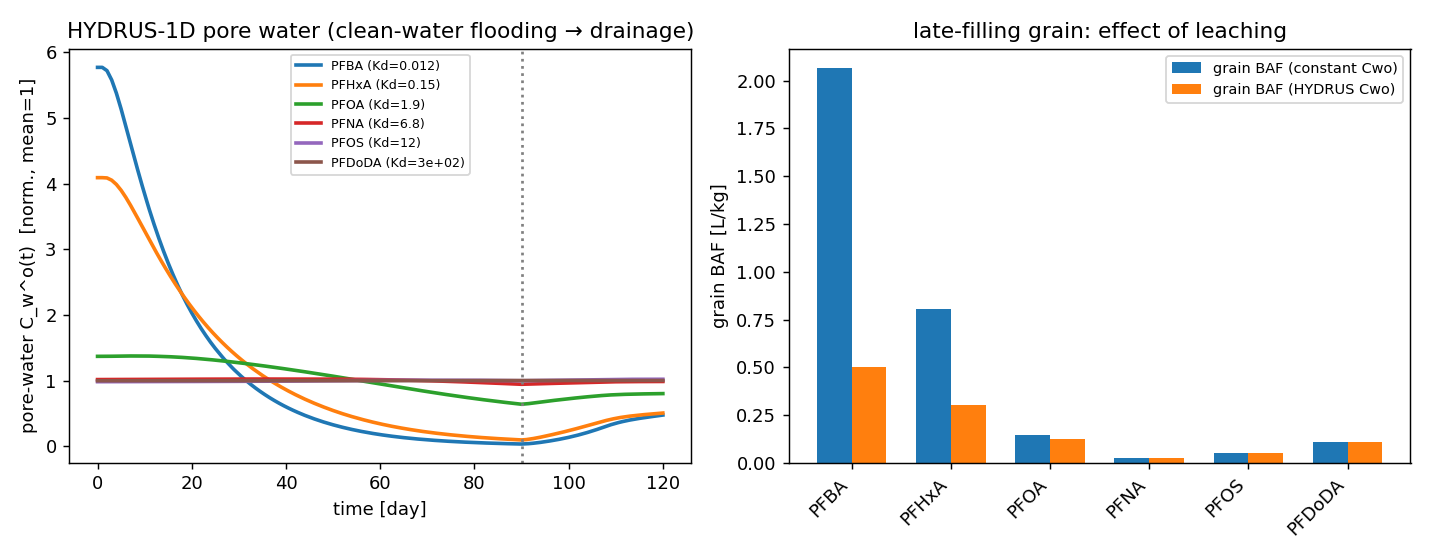
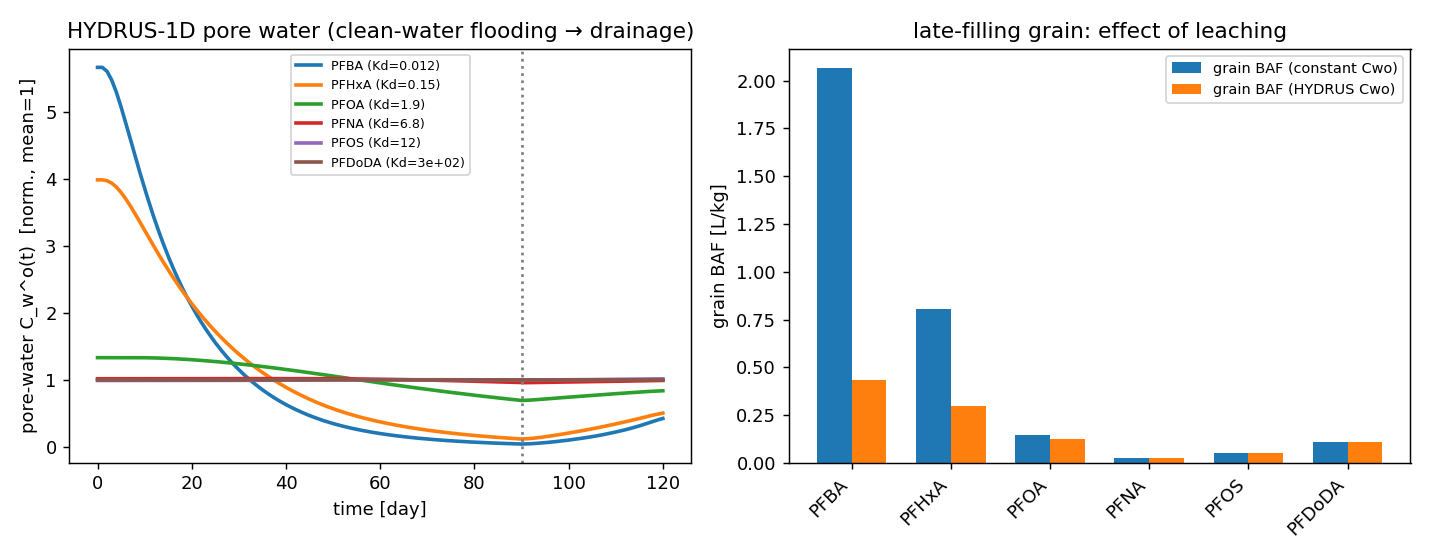
soil_hydrus: drive HYDRUS by measured transpiration, default Q_TP from the run
Make qtp_from_hydrus the default in inputs_from_hydrus so Method A supplies BOTH
C_w^o(t) and Q_TP(t) from the real soil run, not just the pore water.

To keep this an improvement (not a regression from the measured forcing_rice
crop physiology), the soil run's potential transpiration (atmospheric rRoot) is
now driven by the MEASURED transpiration shape (forcing_rice.transpiration_mm_d),
and HYDRUS's actual root water uptake vRoot is converted to L/day/hill via the
planting-density area. When the flooded paddy is unstressed this reproduces
forcing_rice.Q_TP to <1% (peak ratio 1.00, shape corr 0.999); it only diverges
under soil-water limitation -- the physically meaningful added value.

- src/soil_hydrus.py: run_paddy_hydrus gains tpot_fn (potential transpiration
  driver); inputs_from_hydrus defaults qtp_from_hydrus=True with the physical
  vRoot->Q_TP conversion (area_per_hill) instead of the peak-rescale hack.
- tests/test_soil_hydrus.py: add a consistency test (HYDRUS Q_TP vs measured
  forcing when unstressed). 76 passed, 1 skipped.
- validation/hydrus_coupled_run.py outputs refreshed (PFBA grain 2.07->0.43).
- CLAUDE.md / README.md updated.

https://claude.ai/code/session_01GcDnRDx6KWFs8dxY7dNsG6

diff --git a/src/soil_hydrus.py b/src/soil_hydrus.py
@@ -119,7 +119,7 @@ class PaddyResult:
 def run_paddy_hydrus(Kd: float, season: float = 120.0, *, depth: float = 100.0,
                      dx: float = 2.0, bulk_density: float = 1.3, disper: float = 5.0,
                      flood_until: float = 90.0, percolation: float = 0.30,
-                     obs_depth: float = 10.0, exe: str = HYDRUS_EXE,
+                     obs_depth: float = 10.0, tpot_fn=None, exe: str = HYDRUS_EXE,
                      workspace: str | None = None, keep: bool = False) -> PaddyResult:
     """Build and run a one-season paddy HYDRUS-1D model for a given Kd.
 
@@ -127,6 +127,12 @@ def run_paddy_hydrus(Kd: float, season: float = 120.0, *, depth: float = 100.0,
     under continuous flooding to ``flood_until`` days (irrigation = ET + a
     ``percolation`` excess, clean water -> leaching) then drainage to harvest.
     Linear Kd sorption, no decay (PFAS recalcitrant).  Returns daily series.
+
+    tpot_fn : optional callable mapping a day array -> potential transpiration
+        [cm/day] for the atmospheric ``rRoot``.  Pass the MEASURED transpiration
+        (e.g. ``forcing_rice.transpiration_mm_d/10``) so HYDRUS's actual root
+        water uptake ``vRoot`` carries the measured crop-physiology shape (plus
+        any soil-water-stress feedback).  Default is an illustrative gaussian.
     """
     import phydrus as ps
     try:
@@ -174,7 +180,10 @@ def run_paddy_hydrus(Kd: float, season: float = 120.0, *, depth: float = 100.0,
         ml.add_root_uptake(model=0, poptm=[-25.0])
 
         days = np.arange(1, int(season) + 1)
-        tpot = 0.05 + 0.55 * np.exp(-((days - 0.62 * season) ** 2) / (2 * (season / 5.5) ** 2))
+        if tpot_fn is not None:
+            tpot = np.maximum(np.asarray(tpot_fn(days), float), 0.0)   # [cm/day]
+        else:
+            tpot = 0.05 + 0.55 * np.exp(-((days - 0.62 * season) ** 2) / (2 * (season / 5.5) ** 2))
         esoil = 0.10 * np.ones_like(days, float)
         prec = np.where(days <= flood_until, esoil + tpot + percolation, 0.0)
         import pandas as pd
@@ -213,26 +222,35 @@ def run_paddy_hydrus(Kd: float, season: float = 120.0, *, depth: float = 100.0,
 # ---------------------------------------------------------------------------
 def inputs_from_hydrus(congener_n_C: int, group: str = "PFCA", *, season: float = 120.0,
                        Cwo_ref: float = 1.0, f_oc: float = 0.02,
-                       qtp_from_hydrus: bool = False, qtp_peak: float = 0.10,
+                       qtp_from_hydrus: bool = True, area_per_hill_m2: float | None = None,
                        n_t: int = 241, **run_kw):
-    """Build a :class:`PlantInputs` whose ``Cwo`` is a real HYDRUS-1D pore-water
-    trajectory for the congener, with growth ``M`` from ORYZA.
+    """Build a :class:`PlantInputs` whose ``Cwo`` AND ``Q_TP`` come from a real
+    HYDRUS-1D paddy run for the congener, with growth ``M`` from ORYZA.
 
     The HYDRUS pore-water series is normalised to season-mean ``Cwo_ref`` so the
     average exposure matches a constant-Cwo run -- the difference is purely the
     realistic temporal structure (leaching during flooding, rebound on drainage).
 
-    qtp_from_hydrus : if True, transpiration shape comes from HYDRUS vRoot,
-        rescaled so its peak is ``qtp_peak`` L/day; else the measured
-        ``forcing_rice.Q_TP`` is used.
+    qtp_from_hydrus : if True (default), the soil run is driven by the MEASURED
+        transpiration (``forcing_rice.transpiration_mm_d``) and Q_TP(t) is the
+        HYDRUS actual root water uptake ``vRoot`` [cm/day] converted to L/day/hill
+        via ``area_per_hill_m2`` -- so it equals the measured forcing when the
+        paddy is unstressed and only diverges under soil-water limitation. If
+        False, the measured ``forcing_rice.Q_TP`` is used directly (soil run uses
+        the default gaussian potential transpiration).
     Returns (PlantInputs, PaddyResult).
     """
     from pfas_rice_plant_module_4pool_surf import PlantInputs
     import growth_rice as gr
     import forcing_rice as fr
 
+    if area_per_hill_m2 is None:
+        area_per_hill_m2 = fr.AREA_PER_HILL_M2
+
     Kd = paddy_kd(congener_n_C, group, f_oc)
-    res = run_paddy_hydrus(Kd, season=season, **run_kw)
+    # drive the soil run with the measured transpiration shape (mm/day -> cm/day)
+    tpot_fn = (lambda d: fr.transpiration_mm_d(d, season) / 10.0) if qtp_from_hydrus else None
+    res = run_paddy_hydrus(Kd, season=season, tpot_fn=tpot_fn, **run_kw)
 
     t = np.linspace(0.0, season, n_t)
     Cw_h = np.interp(t, res.t, res.Cw)
@@ -242,8 +260,9 @@ def inputs_from_hydrus(congener_n_C: int, group: str = "PFCA", *, season: float 
     M = np.maximum(np.column_stack([b["root"], b["stem"], b["leaf"], b["grain"]]), 1e-4)
 
     if qtp_from_hydrus:
-        vr = np.interp(t, res.t, res.vroot)
-        Qtp = vr * (qtp_peak / max(vr.max(), 1e-9))
+        # vRoot [cm/day] over the surface -> volumetric uptake per hill [L/day]:
+        # vRoot * area[cm^2] / 1000[cm^3/L] = vRoot * (area_m2 * 1e4) / 1e3
+        Qtp = np.maximum(np.interp(t, res.t, res.vroot), 0.0) * area_per_hill_m2 * 10.0
     else:
         Qtp = fr.Q_TP(t, season)
 

diff --git a/tests/test_soil_hydrus.py b/tests/test_soil_hydrus.py
@@ -51,3 +51,15 @@ def test_inputs_from_hydrus_normalised_and_shaped():
     assert np.mean(inp.Cwo) == pytest.approx(2.0, rel=1e-6)  # normalised to ref
     assert inp.M.shape == (121, 4)
     assert np.all(inp.M > 0) and np.all(np.isfinite(inp.Qtp))
+
+
+@hydrus
+def test_hydrus_qtp_matches_measured_forcing_when_unstressed():
+    """qtp_from_hydrus (default) must reproduce the measured forcing_rice Q_TP in
+    a well-watered flooded paddy (no soil-water stress) -- it is consistent with,
+    not a regression from, the measured crop physiology."""
+    import forcing_rice as fr
+    inp, _ = sh.inputs_from_hydrus(8, "PFCA", season=120.0, n_t=241)
+    q_meas = fr.Q_TP(inp.t, 120.0)
+    assert inp.Qtp.max() == pytest.approx(q_meas.max(), rel=0.10)   # peak within 10%
+    assert np.corrcoef(inp.Qtp, q_meas)[0, 1] > 0.98               # same shape

diff --git a/CLAUDE.md b/CLAUDE.md
@@ -54,7 +54,7 @@ Corrected neutral DPU base: `docs/dpu_model_summary_corrected.tex`
 │   └── literature_db/                # curated parameter DB (.xlsx + per-sheet .csv) + raw_si/ SI extractions
 ├── external/hydrus_source/           # git submodule → github.com/phydrus/source_code
 ├── data/                             # (gitignored)
-└── tests/                            # pytest (75): plant, soil, hydrus, calibration, literature params
+└── tests/                            # pytest (76): plant, soil, hydrus, calibration, literature params
 ```
 
 ## 4. Coupling strategy
@@ -62,8 +62,12 @@ Corrected neutral DPU base: `docs/dpu_model_summary_corrected.tex`
   `C_w^o(t)`, `Q_TP(t)`; the plant ODE is solved in Python (`src/pfas_rice_plant_module.py`).
   No FORTRAN edits. Interface = the three arrays in `PlantInputs` (`Cwo`, `Qtp`, `M`).
   `src/soil_hydrus.py` builds & runs the compiled HYDRUS-1D engine (via `phydrus`) for a paddy
-  scenario per congener (Kd from the C3 `Koc` QSPR) and returns the pore-water trajectory →
-  `inputs_from_hydrus()` → `PlantInputs`. See `validation/hydrus_coupled_run.py`.
+  scenario per congener (Kd from the C3 `Koc` QSPR) and returns BOTH the pore-water trajectory
+  `C_w^o(t)` and the root water uptake `Q_TP(t)` → `inputs_from_hydrus()` → `PlantInputs`. The
+  soil run is driven by the MEASURED transpiration (`forcing_rice.transpiration_mm_d`), so HYDRUS's
+  actual uptake `vRoot` carries the measured crop-physiology shape (+ soil-water-stress feedback);
+  `qtp_from_hydrus=True` (default) reproduces `forcing_rice.Q_TP` to <1% when unstressed (consistency
+  test) and only diverges under water limitation. See `validation/hydrus_coupled_run.py`.
 - **Method B — tight (FUTURE).** Modify `external/hydrus_source` (HYDRUS-1D FORTRAN):
   replace/augment the **root solute-uptake routine** with `j_R`, add the plant module,
   rebuild via `makefile`. `external/hydrus_source/source_mcmc/` provides Bayesian
@@ -105,7 +109,7 @@ Corrected neutral DPU base: `docs/dpu_model_summary_corrected.tex`
   normalises the series to season-mean exposure and returns `PlantInputs`. **Result** (`validation/
   hydrus_coupled_run.py`): the pore water is strongly **congener-dependent** — weakly-sorbed short
   chains (Kd≈0.01–0.15) leach to near-zero during flooding so the constant-`Cwo` placeholder
-  **over-predicts grain/straw BAF ~2–4×** (PFBA grain 2.07→0.50), while strongly-sorbed long chains
+  **over-predicts grain/straw BAF ~2–4×** (PFBA grain 2.07→0.43), while strongly-sorbed long chains
   (Kd≳7) stay buffered (BAF≈unchanged). Tests skip when the exe/phydrus is absent. **Remaining**:
   anoxic/flooded sorption + a real field flooding schedule + the user's site soil/loading.
 - **Calibration (task #4)**: `src/calibration.py` fits Tier-1 params to observed tissue
@@ -171,7 +175,7 @@ Corrected neutral DPU base: `docs/dpu_model_summary_corrected.tex`
   python validation/hydrus_coupled_run.py             # full soil→plant + figure/CSV
   ```
 - Calibration: `python src/calibration.py`; Literature params: `python src/literature_params.py`.
-- Tests: `pip install pytest && pytest` (75 passing, 1 skipped; HYDRUS tests auto-skip if the exe is unbuilt).
+- Tests: `pip install pytest && pytest` (76 passing, 1 skipped; HYDRUS tests auto-skip if the exe is unbuilt).
 - FORTRAN (Method B): init submodule (`git submodule update --init`), then follow
   https://phydrus.readthedocs.io/en/latest/getting_started/compilation.html
   (gfortran + `makefile` / `make.bat`). NOTE: the top-level `makefile` lists the `.FOR` files
@@ -206,8 +210,8 @@ Corrected neutral DPU base: `docs/dpu_model_summary_corrected.tex`
    `validation/hydrus_coupled_run.py`): the compiled engine produces a genuine per-congener `C_w^o(t)`
    that drives the plant ODE (short chains leach → constant-`Cwo` over-predicts grain BAF ~2–4×).
    **Remaining**: anoxic/flooded sorption (DB gap), a real field flooding schedule, and the user's
-   site-specific soil/loading; optionally feed HYDRUS `Q_TP(t)` (currently the measured `forcing_rice`
-   peak is kept; HYDRUS shape available via `qtp_from_hydrus=True`).
+   site-specific soil/loading. HYDRUS now also supplies `Q_TP(t)` by default (`qtp_from_hydrus=True`),
+   driven by the measured `forcing_rice` transpiration and reproducing it to <1% when unstressed.
 4. **Tier-1 calibration machinery** **DONE** + **first real fit done**: **Kim et al. 2019**
    (Korean paddy, paired pore-water/soil/brown-rice, `10.1016/j.scitotenv.2019.03.240`) is wired in
    (`kim2019_grain_baf()`); the demo fits `L_Ph` to the PFOA grain BAF (→ matches 4.43 L/kg).

diff --git a/README.md b/README.md
@@ -40,7 +40,7 @@ python validation/hydrus_coupled_run.py         # full soil→plant run + figure
 
 Weakly-sorbed short chains (Kd≈0.01–0.15 from `Koc·f_oc`) leach to near-zero during
 flooding, so the constant-`Cwo` placeholder **over-predicts grain/straw BAF ~2–4×**
-(PFBA grain 2.07→0.50); strongly-sorbed long chains (Kd≳7) stay buffered. The HYDRUS
+(PFBA grain 2.07→0.43); strongly-sorbed long chains (Kd≳7) stay buffered. The HYDRUS
 tests auto-skip where the executable/`phydrus` is unavailable.
 
 `reproduce_demo.py` loads `params/parameters.json` + `src/` and runs the 4-compartment ODE
@@ -180,7 +180,7 @@ them, so a PFSA-specific transport term is still needed.
 - **Soil side (Method A)** — the real HYDRUS-1D engine is now compiled and wired (`src/soil_hydrus.py`):
   per-congener `C_w^o(t)` from the soil transport solve drives the plant ODE. Short chains leach →
   the constant-`Cwo` placeholder over-predicts grain/straw BAF ~2–4×; long chains stay buffered.
-- **Tests** — 75 passing, 1 skipped (`pytest`; HYDRUS tests auto-skip without the built engine).
+- **Tests** — 76 passing, 1 skipped (`pytest`; HYDRUS tests auto-skip without the built engine).
 
 **Open (data-limited, not modeling work):** rice (not wheat) per-congener root subcellular →
 membrane-share/α; reliable per-congener pore-water or hydroponic RCF → surface test + f_xy